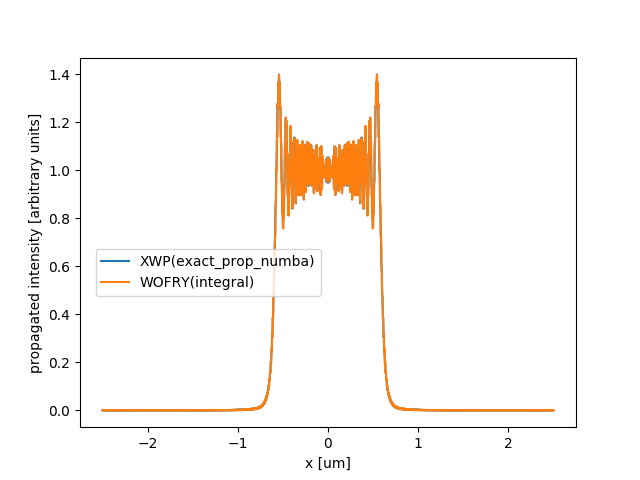
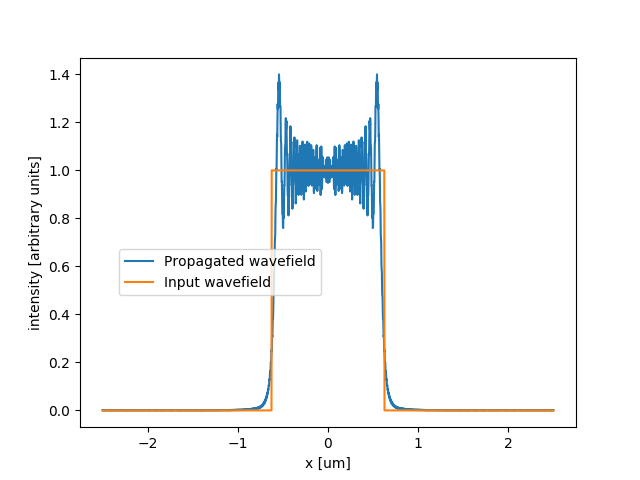
update fig 1

diff --git a/examples/aperture_1D_replicas.py b/examples/aperture_1D_replicas.py
@@ -1,0 +1,103 @@
+
+
+import numpy as np
+import matplotlib.pylab as plt
+import scipy.constants as codata
+
+# please make specific imports insode the funcctions.
+
+from aperture_1D import initialize_wofry_propagators, propagate_with_wofry
+from aperture_1D import propagate_with_sajid
+from aperture_1D import plot_intensity
+
+
+
+if __name__ == "__main__":
+
+    # units are SI unless specified
+
+    #
+    # Input data (near field, as in sajid tests)
+    #
+    energy = 10000.0
+    wavelength = ( codata.h*codata.c/codata.e*1e9 /energy)*10**(-9)
+    window_size = 5e-6
+    aperture_diameter = window_size/4
+    npoints = 2048//2
+    propagation_distance = 75e-6
+
+
+    #
+    # Creation of wavefront
+    #
+
+    x = np.linspace(-0.5*window_size,0.5*window_size,npoints)
+    wavefront = np.ones(npoints,dtype=complex)
+    # apply aperture
+    wavefront[np.where(np.abs(x)>(aperture_diameter/2))] = 0.0
+
+    # plot_intensity(wavefront,1e6*x,
+    #                xlabel="x [um]",ylabel="source intensity [arbitrary units]",title="incident wavefront")
+
+    #
+    # propagation wofry
+    #
+    method = "integral"
+    wavefront_propagated, x_propagated = propagate_with_wofry(wavefront,x,wavelength,
+                        propagation_distance,method=method,aperture_diameter=aperture_diameter)
+
+    # plot_intensity(wavefront_propagated,1e6*x_propagated,wavefront, 1e6 * x,
+    #             xlabel="x [um]",ylabel="propagated intensity [arbitrary units]",
+    #             title="propagated_with_WOFRY_(%s)"%method)
+
+
+    plot_intensity(
+                        wavefront_propagated, 1e6 * x_propagated,
+                        wavefront, 1e6 * x,
+                        xlabel="x [um]",ylabel="intensity [arbitrary units]",
+                        legend=["Propagated wavefield","Input wavefield"],legend_position=[0.5,0.8],
+                        dumpfile="aperture_1D_over2.png",
+                        )
+
+    #
+    # Input data (near field, as in sajid tests)
+    #
+    energy = 10000.0
+    wavelength = ( codata.h*codata.c/codata.e*1e9 /energy)*10**(-9)
+    window_size = 5e-6
+    aperture_diameter = window_size/4
+    npoints = 2048//4
+    propagation_distance = 75e-6
+
+
+    #
+    # Creation of wavefront
+    #
+
+    x = np.linspace(-0.5*window_size,0.5*window_size,npoints)
+    wavefront = np.ones(npoints,dtype=complex)
+    # apply aperture
+    wavefront[np.where(np.abs(x)>(aperture_diameter/2))] = 0.0
+
+    # plot_intensity(wavefront,1e6*x,
+    #                xlabel="x [um]",ylabel="source intensity [arbitrary units]",title="incident wavefront")
+
+    #
+    # propagation wofry
+    #
+    method = "integral"
+    wavefront_propagated, x_propagated = propagate_with_wofry(wavefront,x,wavelength,
+                        propagation_distance,method=method,aperture_diameter=aperture_diameter)
+
+    # plot_intensity(wavefront_propagated,1e6*x_propagated,wavefront, 1e6 * x,
+    #             xlabel="x [um]",ylabel="propagated intensity [arbitrary units]",
+    #             title="propagated_with_WOFRY_(%s)"%method)
+
+
+    plot_intensity(
+                        wavefront_propagated, 1e6 * x_propagated,
+                        wavefront, 1e6 * x,
+                        xlabel="x [um]",ylabel="intensity [arbitrary units]",
+                        legend=["Propagated wavefield","Input wavefield"],legend_position=[0.5,0.8],
+                        dumpfile="aperture_1D_over4.png",
+                        )

diff --git a/examples/aperture_1D.py b/examples/aperture_1D.py
@@ -36,7 +36,7 @@ def initialize_wofry_propagators():
     return propagator
 
 def propagate_with_wofry(wavefront,x,wavelength,propagation_distance,
-                         method='fft',):
+                         method='fft',aperture_diameter=10e-6):
 
     from wofry.propagator.wavefront1D.generic_wavefront import GenericWavefront1D
     from wofry.propagator.propagator import PropagationElements
@@ -194,8 +194,8 @@ if __name__ == "__main__":
     # apply aperture
     wavefront[np.where(np.abs(x)>(aperture_diameter/2))] = 0.0
 
-    plot_intensity(wavefront,1e6*x,
-                   xlabel="x [um]",ylabel="source intensity [arbitrary units]",title="incident wavefront")
+    # plot_intensity(wavefront,1e6*x,
+    #                xlabel="x [um]",ylabel="source intensity [arbitrary units]",title="incident wavefront")
 
     #
     # propagation wofry
@@ -203,10 +203,13 @@ if __name__ == "__main__":
     method = "integral"
     wavefront_propagated, x_propagated = propagate_with_wofry(wavefront,x,wavelength,propagation_distance,method=method)
 
-    plot_intensity(wavefront_propagated,1e6*x_propagated,wavefront, 1e6 * x,
-                xlabel="x [um]",ylabel="propagated intensity [arbitrary units]",
-                title="propagated_with_WOFRY_(%s)"%method)
-
+    plot_intensity(
+                        wavefront_propagated, 1e6 * x_propagated,
+                        wavefront, 1e6 * x,
+                        xlabel="x [um]",ylabel="intensity [arbitrary units]",
+                        legend=["Propagated wavefield","Input wavefield"],legend_position=[0.5,0.5],
+                        dumpfile="aperture_1D.png",
+                        )
 
     #
     # propagation sajid
@@ -223,10 +226,17 @@ if __name__ == "__main__":
     wavefront_propagated_s, L_propagated_s = propagate_with_sajid(wavefront,x,wavelength,propagation_distance,method=method_s)
     x_propagated_s = np.linspace(-0.5*L_propagated_s,0.5*L_propagated_s,np.shape(wavefront_propagated_s)[0])
 
-    plot_intensity(wavefront_propagated_s,1e6*x_propagated_s,wavefront, 1e6 * x,
-                xlabel="x [um]",ylabel="propagated intensity [arbitrary units]",
-                title="propagated_with_SAJID_(%s)"%method_s)
+    # plot_intensity(wavefront_propagated_s,1e6*x_propagated_s,wavefront, 1e6 * x,
+    #             xlabel="x [um]",ylabel="propagated intensity [arbitrary units]",
+    #             title="XWP(%s)"%method_s)
 
+    plot_intensity(
+                        wavefront_propagated_s, 1e6 * x_propagated_s,
+                        wavefront, 1e6 * x,
+                        xlabel="x [um]",ylabel="intensity [arbitrary units]",
+                        legend=["Propagated wavefield","Input wavefield"],legend_position=[0.5,0.5],
+                        dumpfile="aperture_1D.png",
+                        )
 
     #
     #plot comparison
@@ -235,4 +245,5 @@ if __name__ == "__main__":
                         wavefront_propagated, 1e6 * x_propagated,
                         xlabel="x [um]",ylabel="propagated intensity [arbitrary units]",
                         legend=["XWP(%s)"%method_s,"WOFRY(%s)"%method],legend_position=[0.5,0.5],
-                        dumpfile="aperture_1D.png")
+                        # dumpfile="aperture_1D.png"
+                        )
